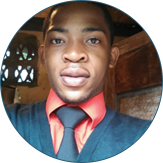
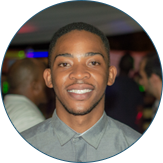
Added validation on contact php and updated profile photo

diff --git a/contact.php b/contact.php
@@ -4,9 +4,25 @@ if($_POST):
 	$email = $_POST['email'];
 	$message = $_POST['message'];
 
+	$code = 1;
+	$responce_message;
+
+	if(!filter_var($email, FILTER_VALIDATE_EMAIL)):
+		$responce_message =  "Email invalido, por favor digite um email valido e tente novamente";
+	elseif(!$name): $responce_message = "Pror favor preencha o seu nome e tente novamente!";
+	elseif(!$message): $responce_message = "Ups, acho que se esqueceu de deixar a sua mensagem, tente novamente!";
+	else:
+		$responce_message = "Obrigado por me contactar, irei responde-lo dentro em breve!";
+		$code = 0;
+	endif;
+
 	$responce = array(
-		'code'=>1,
-		'message'=>'Obrigado por me contactar, irei responde-lo dentro em breve!'
+		'code'=>$code,
+		'message'=> $responce_message
 	);
 	echo json_encode($responce);
+endif;
+
+if($_GET):
+	echo "Metodo nao suportado!";
 endif;
